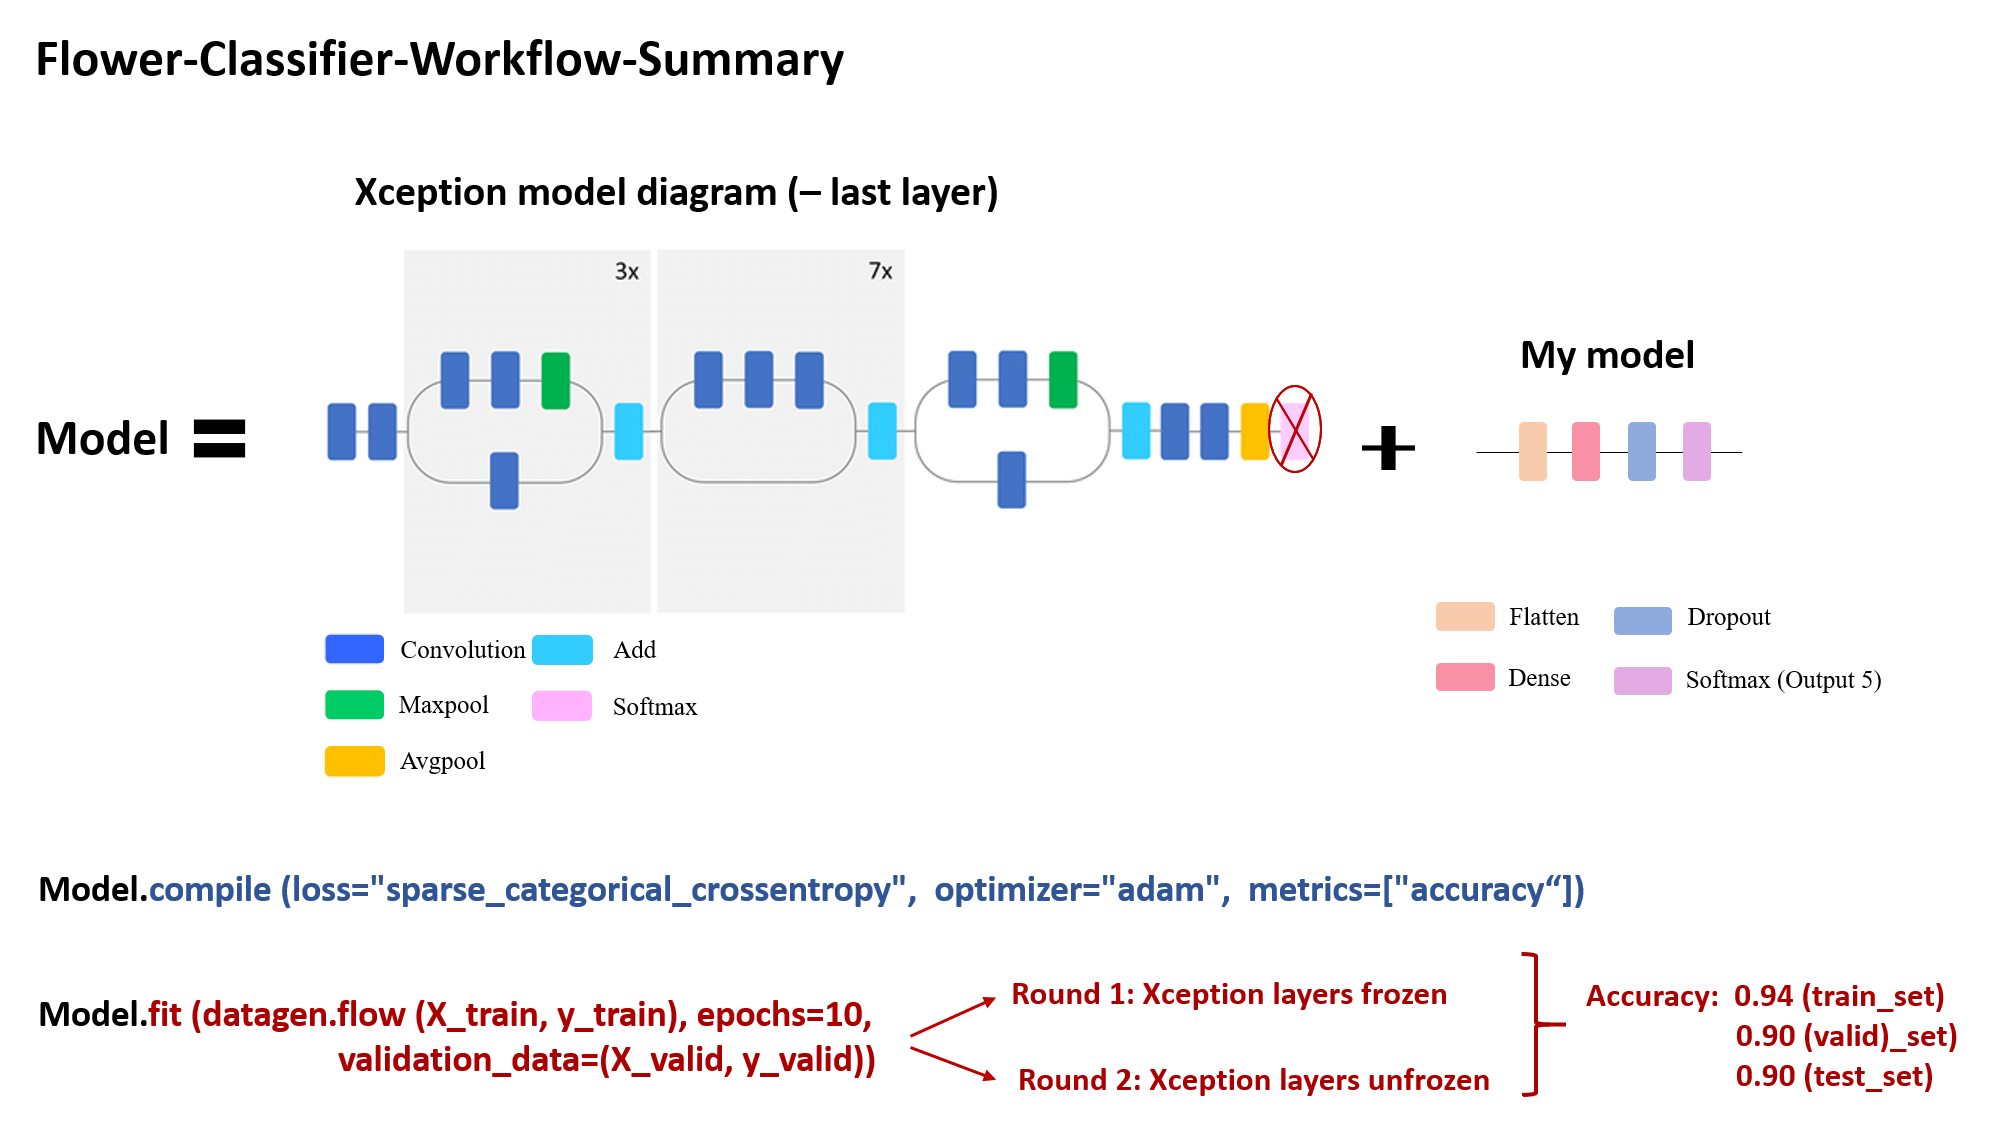
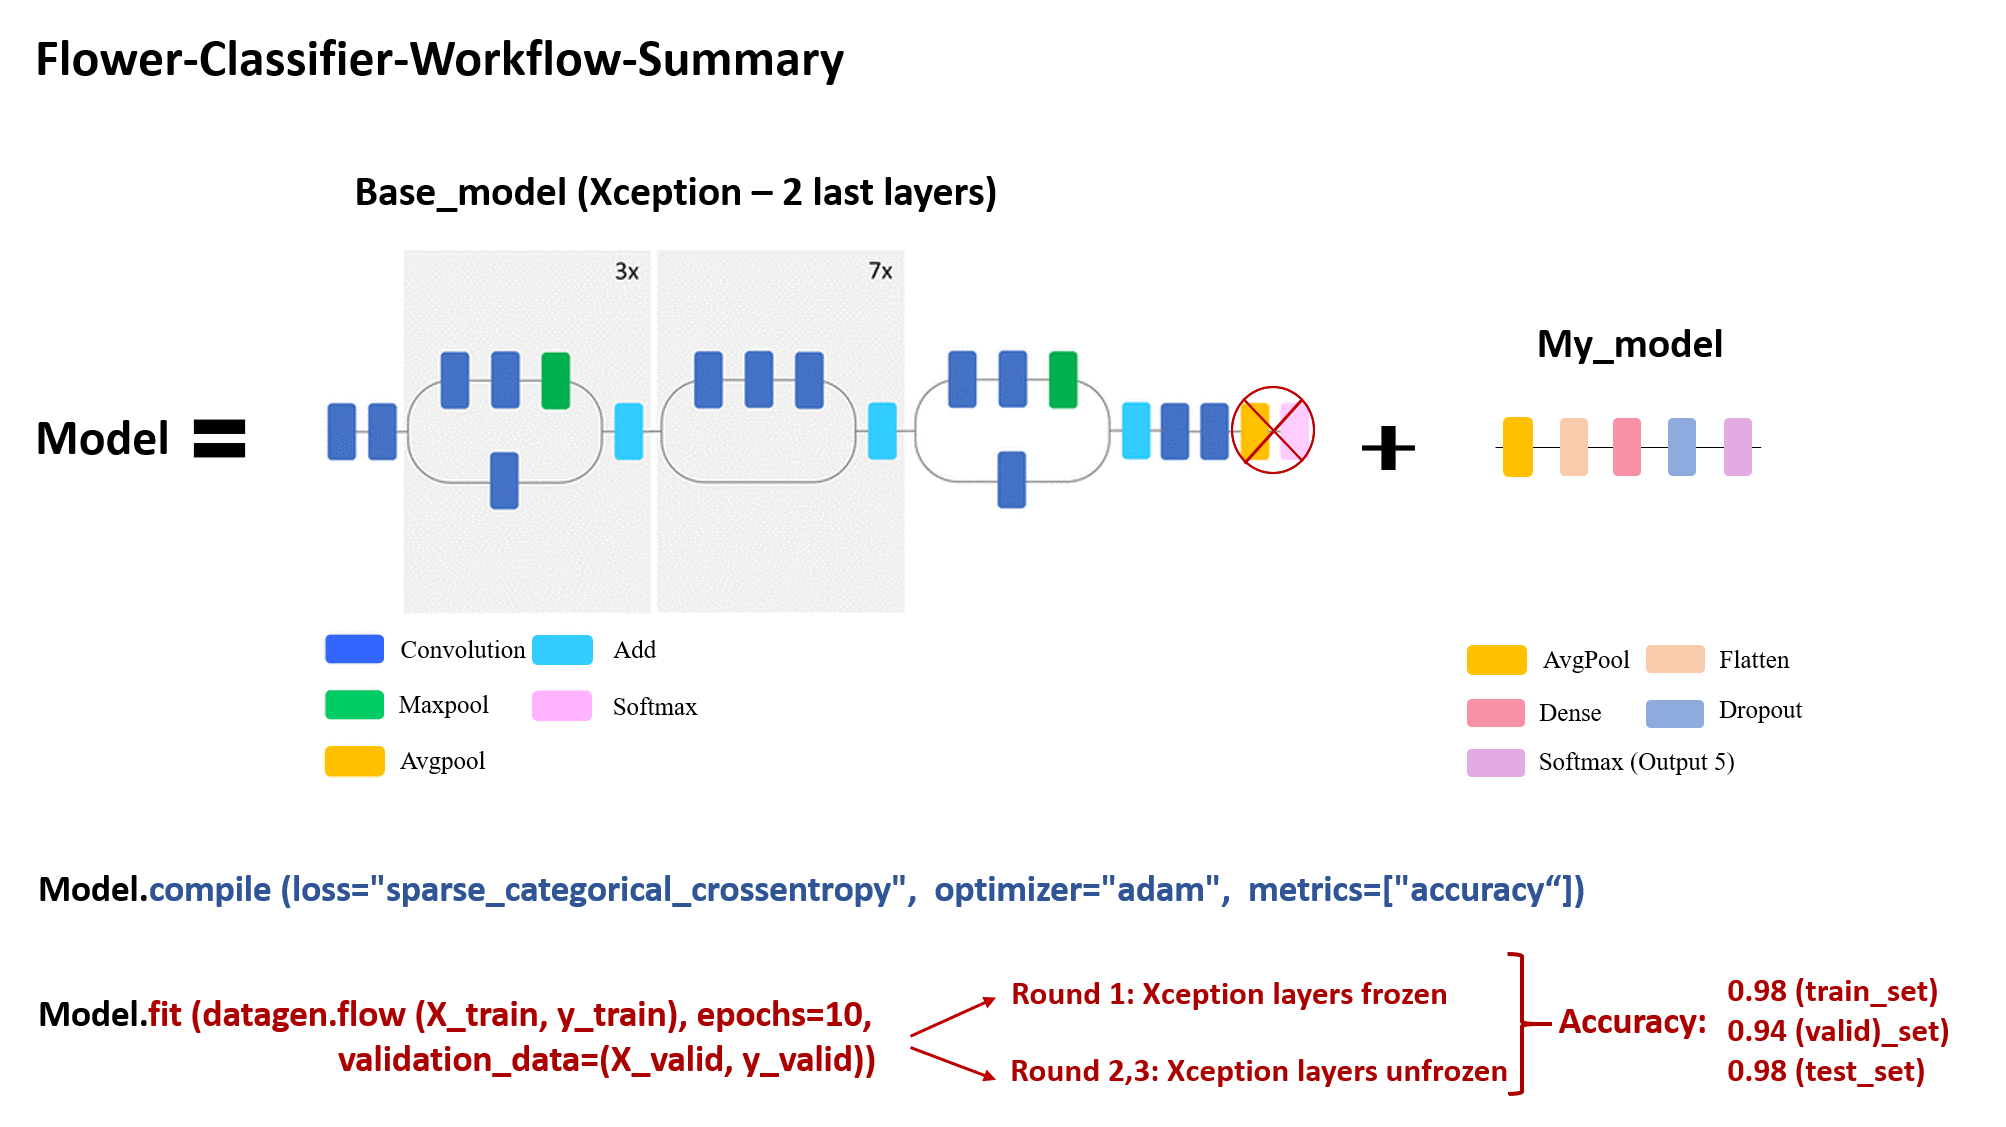
drug project

diff --git a/post/project_2/index.html b/post/project_2/index.html
@@ -6,7 +6,7 @@
     
     <title>Project 2: Flower classification using a Convolutional Neural Network (CNN) | Enrique Alcalde</title>
     <meta name="viewport" content="width=device-width,minimum-scale=1">
-    <meta name="description" content=" In this image classification project, I trained a CNN model capable of classifying 5 types of flowers with a 90% accuracy by using transfer learning and data augmentation.">
+    <meta name="description" content=" In this image classification project, I trained a CNN model capable of classifying 5 types of flowers with a 98% accuracy by using transfer learning and data augmentation.">
     <meta name="generator" content="Hugo 0.76.5" />
     
     
@@ -28,13 +28,13 @@
     
     
     <meta property="og:title" content="Project 2: Flower classification using a Convolutional Neural Network (CNN)" />
-<meta property="og:description" content=" In this image classification project, I trained a CNN model capable of classifying 5 types of flowers with a 90% accuracy by using transfer learning and data augmentation." />
+<meta property="og:description" content=" In this image classification project, I trained a CNN model capable of classifying 5 types of flowers with a 98% accuracy by using transfer learning and data augmentation." />
 <meta property="og:type" content="article" />
 <meta property="og:url" content="https://enriquespr.github.io/Enrique_portfolio_web/post/project_2/" />
 <meta property="article:published_time" content="2020-11-03T00:00:00+00:00" />
 <meta property="article:modified_time" content="2020-11-03T00:00:00+00:00" />
 <meta itemprop="name" content="Project 2: Flower classification using a Convolutional Neural Network (CNN)">
-<meta itemprop="description" content=" In this image classification project, I trained a CNN model capable of classifying 5 types of flowers with a 90% accuracy by using transfer learning and data augmentation.">
+<meta itemprop="description" content=" In this image classification project, I trained a CNN model capable of classifying 5 types of flowers with a 98% accuracy by using transfer learning and data augmentation.">
 <meta itemprop="datePublished" content="2020-11-03T00:00:00+00:00" />
 <meta itemprop="dateModified" content="2020-11-03T00:00:00+00:00" />
 <meta itemprop="wordCount" content="246">
@@ -44,7 +44,7 @@
 <meta itemprop="keywords" content="" />
 <meta name="twitter:card" content="summary"/>
 <meta name="twitter:title" content="Project 2: Flower classification using a Convolutional Neural Network (CNN)"/>
-<meta name="twitter:description" content=" In this image classification project, I trained a CNN model capable of classifying 5 types of flowers with a 90% accuracy by using transfer learning and data augmentation."/>
+<meta name="twitter:description" content=" In this image classification project, I trained a CNN model capable of classifying 5 types of flowers with a 98% accuracy by using transfer learning and data augmentation."/>
 
 	
   </head>
@@ -137,7 +137,7 @@
           <h1 class="f2 f1-l fw2 white-90 mb0 lh-title">Project 2: Flower classification using a Convolutional Neural Network (CNN)</h1>
           
             <h2 class="fw1 f5 f3-l white-80 measure-wide-l center lh-copy mt3 mb4">
-               In this image classification project, I trained a CNN model capable of classifying 5 types of flowers with a 90% accuracy by using transfer learning and data augmentation.
+               In this image classification project, I trained a CNN model capable of classifying 5 types of flowers with a 98% accuracy by using transfer learning and data augmentation.
             </h2>
           
         
@@ -195,7 +195,7 @@
       
     </header>
     <div class="nested-copy-line-height lh-copy serif f4 nested-links nested-img mid-gray pr4-l w-two-thirds-l"><h3 id="description">Description:</h3>
-<p>In this image classification project, I trained a CNN model capable of classifying 5 types of flowers with a 90% accuracy by using <strong>transfer learning</strong> and <strong>data augmentation</strong>. 🌼🌷🌻❓</p>
+<p>In this image classification project, I trained a CNN model capable of classifying 5 types of flowers with a 98% accuracy by using <strong>transfer learning</strong> and <strong>data augmentation</strong>. 🌼🌷🌻❓</p>
 <p><strong><a href="https://nbviewer.jupyter.org/github/EnriqueSPR/flower_image_classifier/blob/main/my_flower_classifier.ipynb">See full code here</a></strong>.</p>
 <figure>
     <img src="https://enriquespr.github.io/Enrique_portfolio_web/images/Project_2/flower_front.png"/> 

diff --git a/post/project_1/index.html b/post/project_1/index.html
@@ -31,12 +31,12 @@
 <meta property="og:description" content="A computational drug discovery project, in which bioinformatic and machine learning tools are used to identify possible molecular targets and drug chemical features to treat prostate cancer" />
 <meta property="og:type" content="article" />
 <meta property="og:url" content="https://enriquespr.github.io/Enrique_portfolio_web/post/project_1/" />
-<meta property="article:published_time" content="2020-11-12T00:00:00+00:00" />
-<meta property="article:modified_time" content="2020-11-12T00:00:00+00:00" />
+<meta property="article:published_time" content="2020-11-15T00:00:00+00:00" />
+<meta property="article:modified_time" content="2020-11-15T00:00:00+00:00" />
 <meta itemprop="name" content="Project 1: Drug Discovery using Machine Learning">
 <meta itemprop="description" content="A computational drug discovery project, in which bioinformatic and machine learning tools are used to identify possible molecular targets and drug chemical features to treat prostate cancer">
-<meta itemprop="datePublished" content="2020-11-12T00:00:00+00:00" />
-<meta itemprop="dateModified" content="2020-11-12T00:00:00+00:00" />
+<meta itemprop="datePublished" content="2020-11-15T00:00:00+00:00" />
+<meta itemprop="dateModified" content="2020-11-15T00:00:00+00:00" />
 <meta itemprop="wordCount" content="851">
 
 
@@ -189,7 +189,7 @@
       <h1 class="f1 athelas mt3 mb1">Project 1: Drug Discovery using Machine Learning</h1>
       
       
-      <time class="f6 mv4 dib tracked" datetime="2020-11-12T00:00:00Z">November 12, 2020</time>
+      <time class="f6 mv4 dib tracked" datetime="2020-11-15T00:00:00Z">November 15, 2020</time>
 
       
       

diff --git a/index.html b/index.html
@@ -36,7 +36,7 @@
 <meta property="og:description" content="A summary of my interests and experience in data science." />
 <meta property="og:type" content="website" />
 <meta property="og:url" content="https://enriquespr.github.io/Enrique_portfolio_web/" />
-<meta property="og:updated_time" content="2020-11-12T00:00:00+00:00" />
+<meta property="og:updated_time" content="2020-11-15T00:00:00+00:00" />
 <meta itemprop="name" content="My Data Science Porfolio">
 <meta itemprop="description" content="A summary of my interests and experience in data science.">
 <meta name="twitter:card" content="summary"/>
@@ -224,7 +224,7 @@ In this project I will focus on studying possible drugs targeting proteins with 
             </a>
         </h1>
         <div class="f6 f5-l lh-copy nested-copy-line-height nested-links">
-          Description: In this image classification project, I trained a CNN model capable of classifying 5 types of flowers with a 90% accuracy by using transfer learning and data augmentation. 🌼🌷🌻❓
+          Description: In this image classification project, I trained a CNN model capable of classifying 5 types of flowers with a 98% accuracy by using transfer learning and data augmentation. 🌼🌷🌻❓
 See full code here.
   Code and Resources Used Python Version: 3.7
 Packages: pandas, numpy, random, os, cv2, pathlib, PIL, sklearn, matplotlib, seaborn, tensorflow (2.3.1) and keras (2.4.0).

diff --git a/post/index.html b/post/index.html
@@ -152,7 +152,7 @@
             <div class="mb3 pa4 mid-gray overflow-hidden">
     
       <div class="f6">
-        November 12, 2020
+        November 15, 2020
       </div>
     
     <h1 class="f3 near-black">
@@ -182,7 +182,7 @@ In this project I will focus on studying possible drugs targeting proteins with 
       </a>
     </h1>
     <div class="nested-links f5 lh-copy nested-copy-line-height">
-      Description: In this image classification project, I trained a CNN model capable of classifying 5 types of flowers with a 90% accuracy by using transfer learning and data augmentation. 🌼🌷🌻❓
+      Description: In this image classification project, I trained a CNN model capable of classifying 5 types of flowers with a 98% accuracy by using transfer learning and data augmentation. 🌼🌷🌻❓
 See full code here.
   Code and Resources Used Python Version: 3.7
 Packages: pandas, numpy, random, os, cv2, pathlib, PIL, sklearn, matplotlib, seaborn, tensorflow (2.3.1) and keras (2.4.0).
